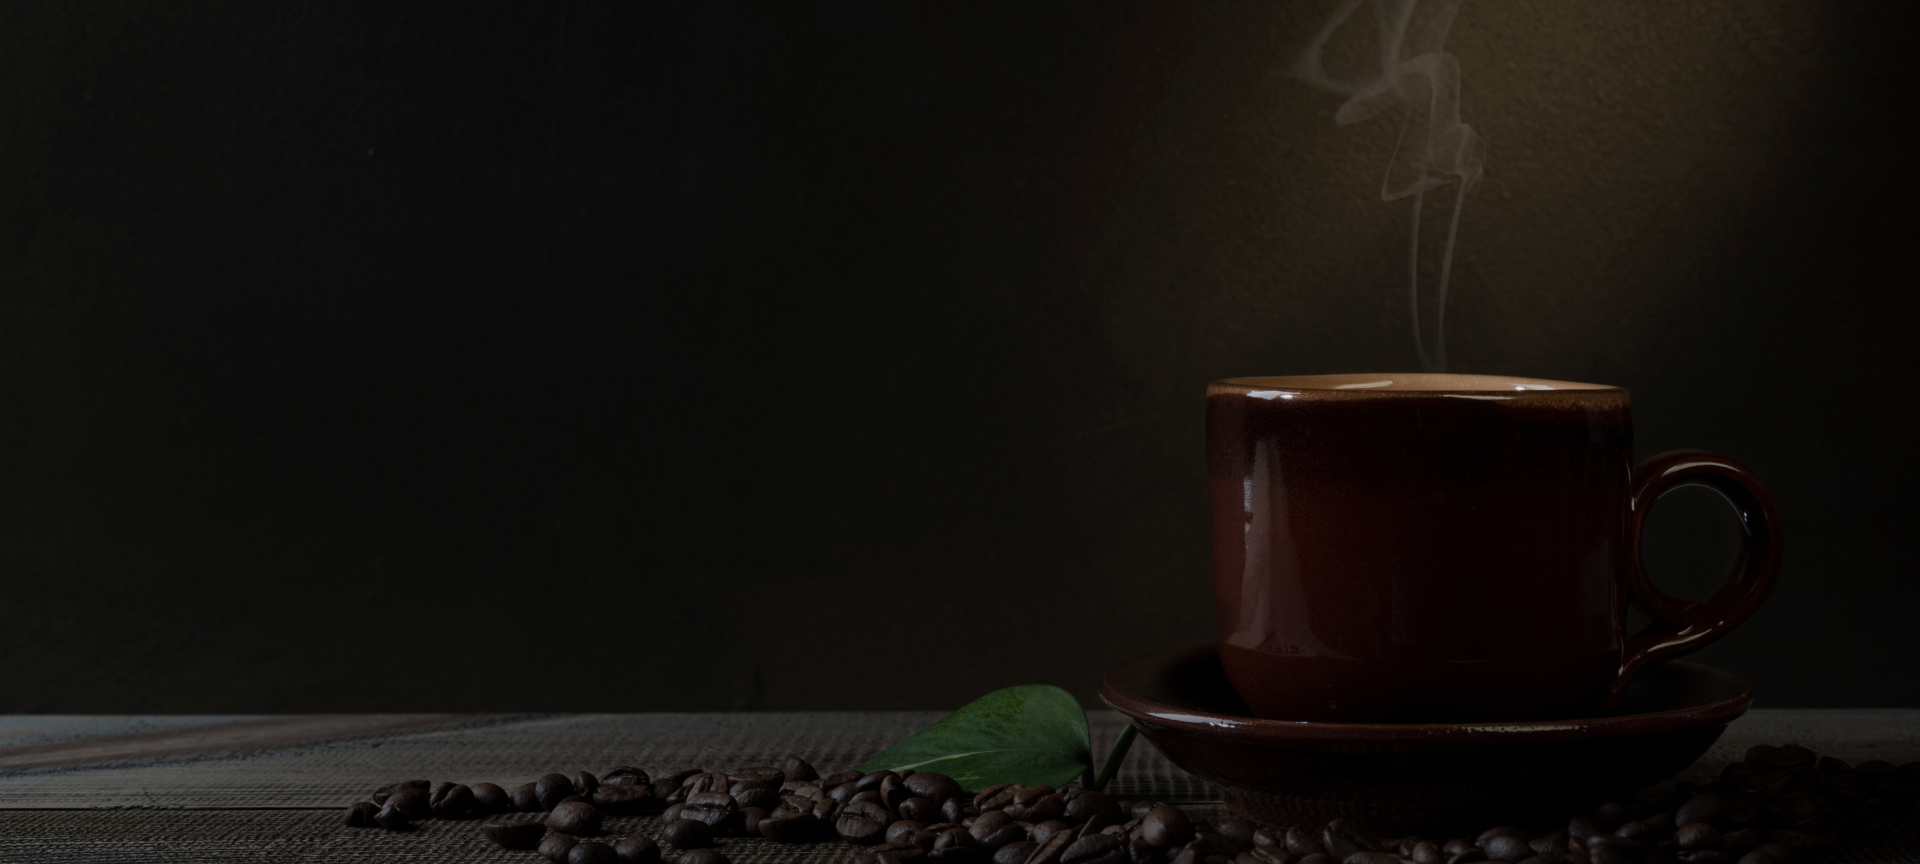
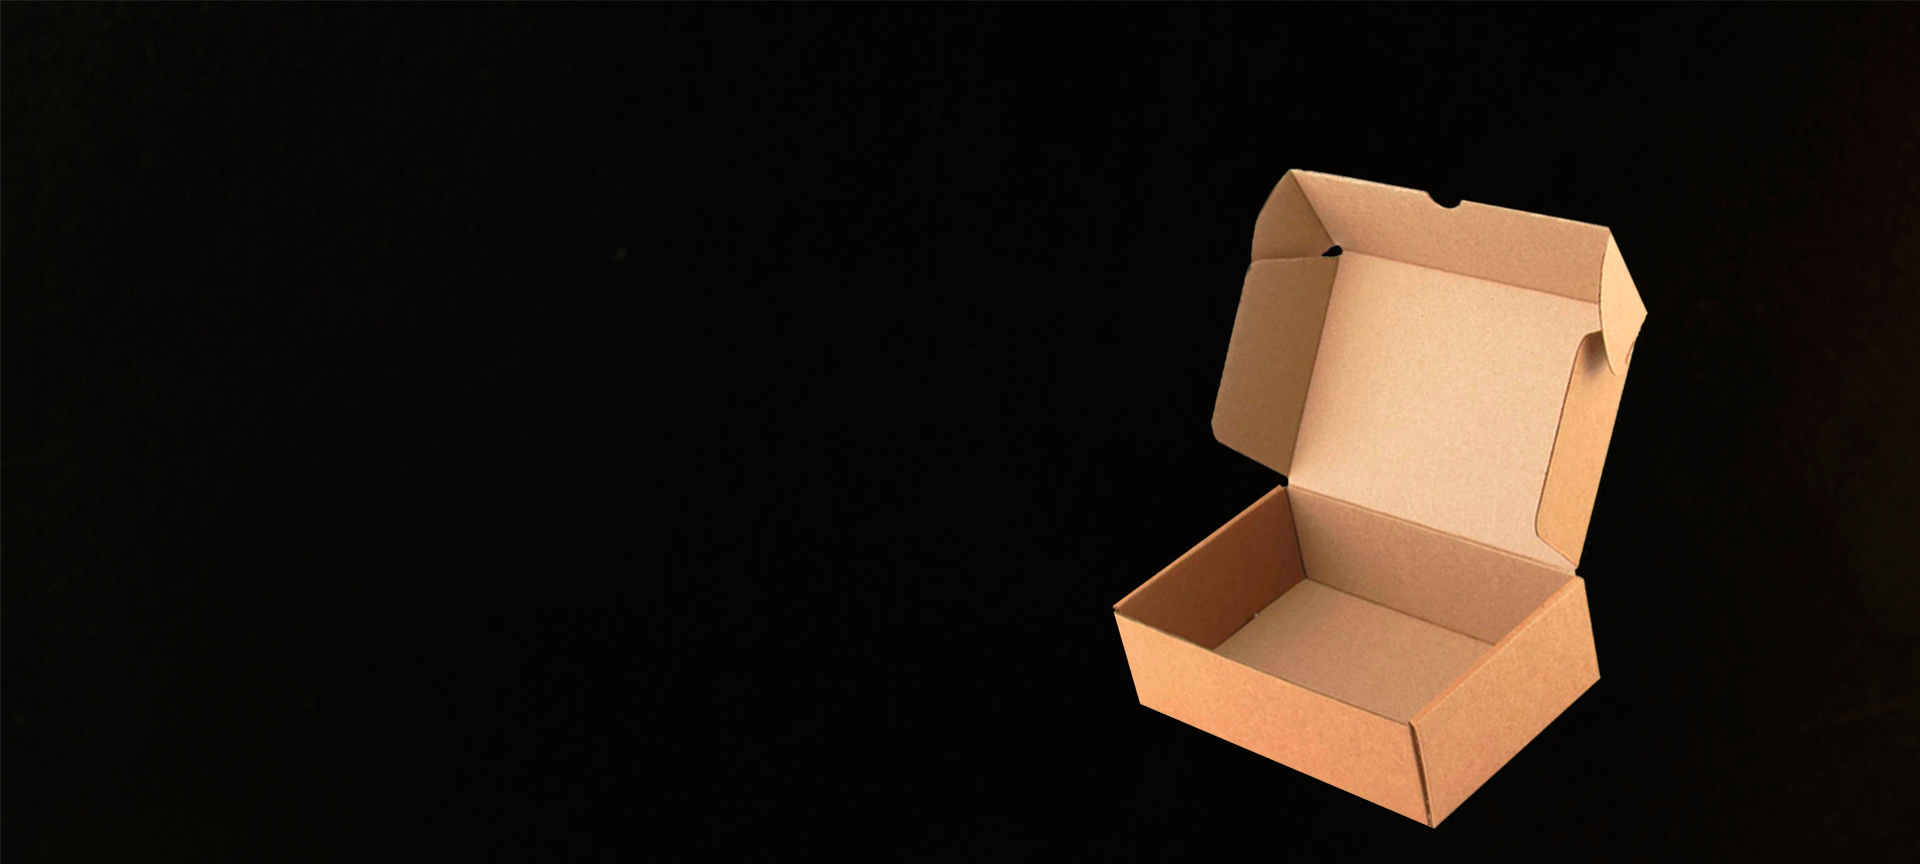
second custom

diff --git a/index.html b/index.html
@@ -21,33 +21,20 @@
                             <a class="nav-main_link" href="#">Как заказать</a>
                         </li>
                         <li class="nav-main_item">
-                            <a class="nav-main_link" href="#">Menu</a>
+                            <a class="nav-main_link" href="#">Когда будет готово</a>
                         </li>
-                        <li class="nav-main_item">
-                            <a class="nav-main_link" href="#">Reservation</a>
-                        </li>
+
                      </ul>
                      <img class="header_logo" src="img/Logo.png" alt="#">
                      <ul class="nav-main_list">
                         <li class="nav-main_item">
-                            <a class="nav-main_link " href="#">Pages</a>
+                            <a class="nav-main_link " href="#">Какой картон используется</a>
                         </li>
                         <li class="nav-main_item">
-                            <a class="nav-main_link" href="#">Shop</a>
-                        </li>
-                        <li class="nav-main_item">
-                            <a class="nav-main_link" href="#">Contact</a>
+                            <a class="nav-main_link" href="#">Где мы находимся</a>
                         </li>
                      </ul>
                 </nav>
-                <div class="header-action">
-                    <button class="header-action_search material-icons-outlined">
-                        search
-                    </button>
-                    <button class="header-action_cart material-icons-outlined">
-                        shopping_bag
-                    </button>
-                </div>
             </div>
         </div>
     </header>
@@ -56,37 +43,54 @@
             <div class="container">
                 <div class="banner">
                     <div class="banner-info">
-                        <h2 class="banner_header">Enjoy Your Morning Coffee.</h2>
-                        <p class="banner-text">The coofee is brewed by fist roasting the green coffee beans over hot coals in brazier. given to Opportunity</p>
+                        <h2 class="banner_header">Рассчитать стоимость коробки мгновенно</h2>
+                        
                         <button class="banner_btn btn-primary">
-                            Test Coffee
+                            Рассчитать стоимость
                         </button>
                     </div>
-                    <button class="banner-video_btn">Play video</button>
+                   
                 </div>
             </div>
         </section>
         <div class="container">
+            <h2 class="banner_header">Как заказать</h2>
             <ol class="features section_main">
                 <li class="features_item">
                     <span class="features_item_dark">01</span>
-                    Best Coffee Flavour
+                    Написать в телеграмме размеры и колличество коробок
                     <img class="features_img" src="img/features1.png" alt="#">
                 </li>
                 <li class="features_item">
                     <span class="features_item_dark">02</span>
-                    Place to get lost
+                    Оплатить счет
                     <img class="features_img" src="img/features2.png" alt="#">
                 </li>
                 <li class="features_item">
                     <span class="features_item_dark">03</span>
-                    Proper roesting
+                    Мы изготовим коробки и вышлем любой удобной ТК
                     <img class="features_img" src="img/features3.png" alt="#">
                 </li>
             </ol>
         </div>
+
+        <div class="container">
+            <h2 class="banner_header">Когда будет готово</h2>
+            <ol class="features section_main">
+                <li class="features_item">
+                    <span class="features_item_dark">01</span>
+                    Как будет готово так будет готово. Lorem ipsum dolor sit, amet consectetur adipisicing elit.
+                     Quisquam at architecto, eos ipsum soluta saepe neque rem totam, veritatis odio a in beatae corporis
+                      illum dolor fugit cumque fugiat? Eos?  
+                    <img class="features_img" src="img/features1.png" alt="#">
+                </li>
+
+            </ol>
+        </div>
+
         <section id="history-section" class="section-main">
             <div class="container">
+                <h2 class="banner_header">Какой картон используется</h2>
                 <div class="history-wrap">
                     <img class="history-wrap_img" src="img/history1.png" alt="#">
                     <img class="history-wrap_img" src="img/history3.png" alt="#">
@@ -104,63 +108,20 @@
             </div>
 
         </section>
-        <section id="popular-section" class="section-main">
-            <div class="container">
-                <h2 class="section-title">Popular Product</h2>
-                <h3 class="section-subtitle">Coffee popular Product</h3>
-                <div class="popular-wrap">
-                    <div class="popular">
-                        <img class="popular-img" src="img/pack.png" alt="#">
-                        <div class="rating">
-                            <h4 class="rating_title">COFEE</h4>
-                            <ul class="rating_list">
-                                <li class="rating_item material-icons-outlined">star</li>
-                                <li class="rating_item material-icons-outlined">star</li>
-                                <li class="rating_item material-icons-outlined">star</li>
-                                <li class="rating_item material-icons-outlined">star</li>
-                                <li class="rating_item material-icons-outlined">star_border</li>
-                            </ul>
-                        </div>
-                        <h3 class="popular_title">brazil coffee gred</h3>
-                        <b class="popular_price">Price - <strong class="popular_price_dark">$320.00</strong>$358</b>
-                        <button class="popular_btn"><span class='material-icons-outlined'>local_mall</span>Add to cart</button>
-                    </div>
-                    <div class="popular">
-                        <img class="popular-img" src="img/pack.png" alt="#">
-                        <div class="rating">
-                            <h4 class="rating_title">COFEE</h4>
-                            <ul class="rating_list">
-                                <li class="rating_item material-icons-outlined">star</li>
-                                <li class="rating_item material-icons-outlined">star</li>
-                                <li class="rating_item material-icons-outlined">star</li>
-                                <li class="rating_item material-icons-outlined">star</li>
-                                <li class="rating_item material-icons-outlined">star_border</li>
-                            </ul>
-                        </div>
-                        <h3 class="popular_title">brazil coffee gred</h3>
-                        <b class="popular_price">Price - <strong class="popular_price_dark">$320.00</strong>$358</b>
-                        <button class="popular_btn"><span class='material-icons-outlined'>local_mall</span>Add to cart</button>
-                    </div>
-                    <div class="popular">
-                        <img class="popular-img" src="img/pack.png" alt="#">
-                        <div class="rating">
-                            <h4 class="rating_title">COFEE</h4>
-                            <ul class="rating_list">
-                                <li class="rating_item material-icons-outlined">star</li>
-                                <li class="rating_item material-icons-outlined">star</li>
-                                <li class="rating_item material-icons-outlined">star</li>
-                                <li class="rating_item material-icons-outlined">star</li>
-                                <li class="rating_item material-icons-outlined">star_border</li>
-                            </ul>
-                        </div>
-                        <h3 class="popular_title">brazil coffee gred</h3>
-                        <b class="popular_price">Price - <strong class="popular_price_dark">$320.00</strong>$358</b>
-                        <button class="popular_btn"><span class='material-icons-outlined'>local_mall</span>Add to cart</button>
-                    </div>
 
-                </div>
-            </div>
-        </section>
+        <div class="container">
+            <h2 class="banner_header">Где мы находимся</h2>
+            <ol class="features section_main">
+                <li class="features_item">
+                    <span class="features_item_dark">01</span>
+                    Как будет готово так будет готово. Lorem ipsum dolor sit, amet consectetur adipisicing elit.
+                     Quisquam at architecto, eos ipsum soluta saepe neque rem totam, veritatis odio a in beatae corporis
+                      illum dolor fugit cumque fugiat? Eos?  
+                    <img class="features_img" src="img/features1.png" alt="#">
+                </li>
+
+            </ol>
+        </div>
     </main>
 </body>
 </html>

diff --git a/styles.css b/styles.css
@@ -77,6 +77,9 @@ button {
 .header-action .header-action_cart {
     font-size: 30px;
 }
+.header_logo {
+    padding-right: 80px;
+}
 /* ---------------------------Baner   -----------------------*/
 #banner-section {
     background: url(img/banner.png) 50% 0%/cover no-repeat;
@@ -110,6 +113,7 @@ button {
     background-color: #735637;
 }
 .banner_btn {
+    margin-top: 50px;
     padding: 24px 40px;
 }
 .banner-video_btn {
